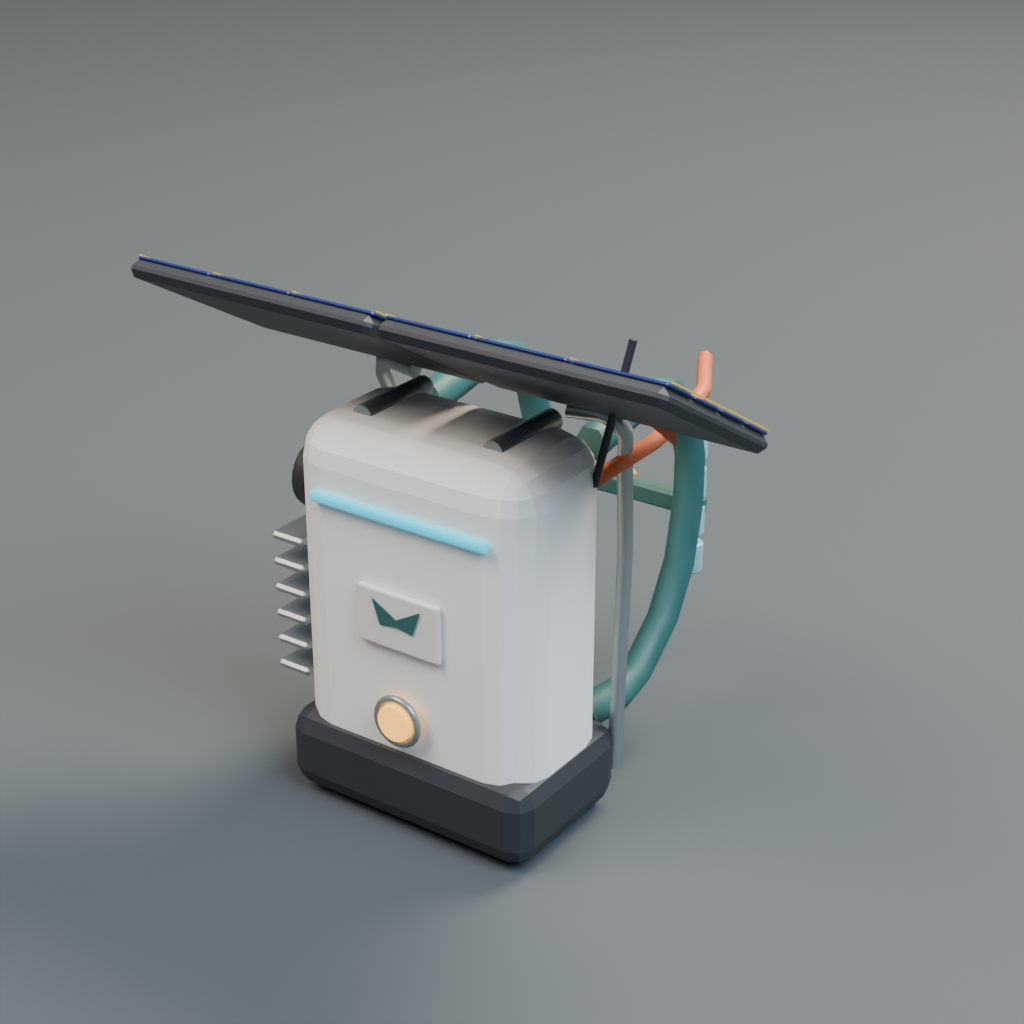
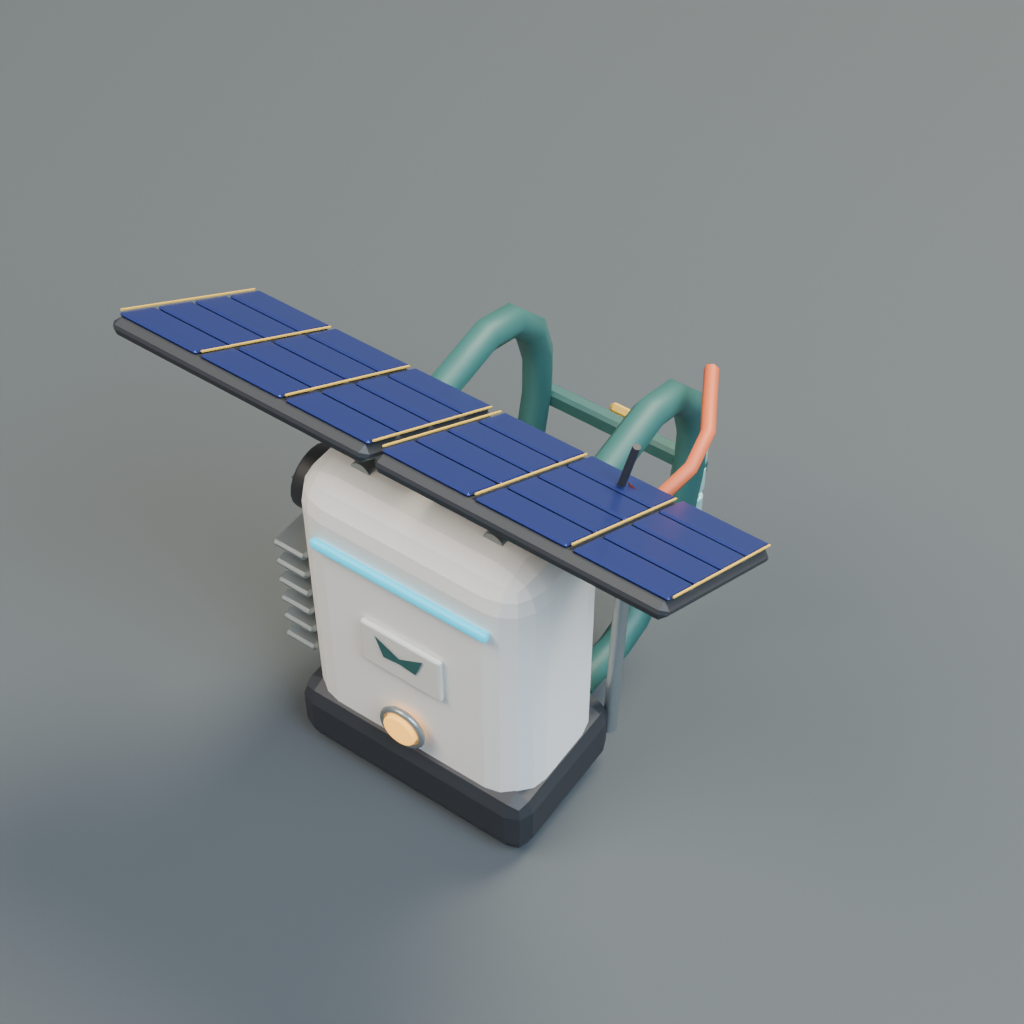
Polish prop_backpack_rig review and export

Changed region(s): [[0.0938, 0.25, 0.75, 0.875], [0.0, 0.0, 0.125, 0.0312]]

diff --git a/art/scripts/prop_backpack_rig.py b/art/scripts/prop_backpack_rig.py
@@ -48,4 +48,4 @@ def build():
 if __name__ == '__main__':
     start('prop_backpack_rig')
     build()
-    finish('prop_backpack_rig','props','No textures. 42 cm frame, ~55 cm with two 30×22 cm solar flaps spread side by side. Positive Y straps face wearer; status_heart is independent.',front_pitch=25)
+    finish('prop_backpack_rig','props','No textures. 42 cm frame, ~55 cm with two 30×22 cm solar flaps spread side by side. Positive Y straps face wearer; status_heart is independent.',front_pitch=48)

diff --git a/art/NOTES.md b/art/NOTES.md
@@ -24,8 +24,8 @@ Rebuild one asset from the project root: `blender --background --python art/scri
 | `prop_salvage_crate` | 1,600 | 0.835 × 0.749 × 0.590 | static | No textures. Open crate of salvaged battery, conduit and cloth-wrapped cable. |
 | `prop_cargo_bike` | 4,056 | 0.640 × 2.010 × 1.073 | static | No textures. Front-facing −Y; working cargo-bike proportions, boxed solar-install supplies, and a parked kickstand. |
 | `net_probe_spore` | 1,200 | 0.059 × 0.059 × 0.080 | static | No textures. Actual 8 cm sensor spore; nearly invisible at default zoom, so gameplay needs a marker. |
-| `prop_backpack_rig` | 5,910 | 0.610 × 0.448 × 0.562 | static | No textures. 42 cm frame, ~55 cm with two 30×22 cm solar flaps spread side by side. Positive Y straps face wearer; status_heart is independent. |
 | `prop_rivet_driver` | 1,520 | 0.100 × 0.289 × 0.186 | static | No textures. 28 cm solar-install rivet tool with tape-wrapped nozzle and removable battery; muzzle faces −Y. |
 | `ai_moth` | 2,944 | 0.452 × 0.285 × 0.079 | hover_idle, fly, scan, deploy_probe, strain | One 1024×1024 RGBA wing atlas. Eight-bone rig, five clips. scan opens the wings; the travelling cell-light sweep remains a game shader hook. Place root ~1.82 m high for a 1.9 m hover center. |
 | `net_door` | 1,616 | 1.000 × 0.452 × 2.540 | closed, open | No textures. Clear opening 2.4 m; lintel reaches 2.54 m. open slides 0.82 m into the adjacent wall; recolor status_ring in game. |
 | `net_turret` | 3,576 | 0.720 × 0.874 × 0.899 | active, offline | No textures. active/offline clips extend or retract the emitter and slump the head. Set status_ring to non-emissive #4A4F57 for offline. |
+| `prop_backpack_rig` | 5,910 | 0.610 × 0.448 × 0.562 | static | No textures. 42 cm frame, ~55 cm with two 30×22 cm solar flaps spread side by side. Positive Y straps face wearer; status_heart is independent. |
